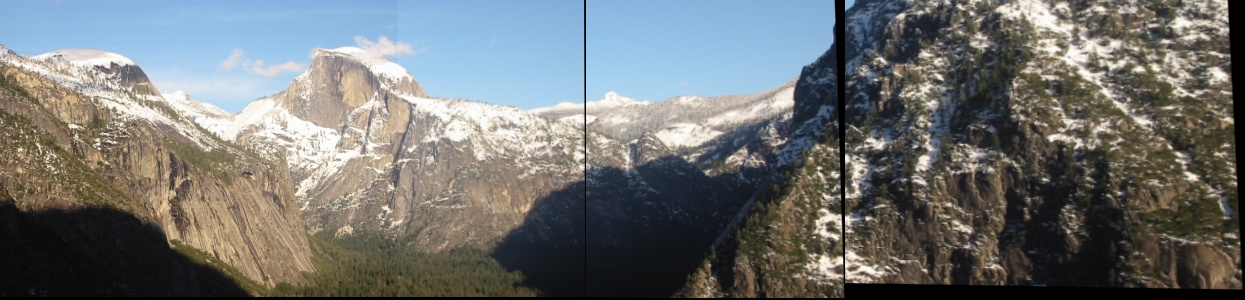
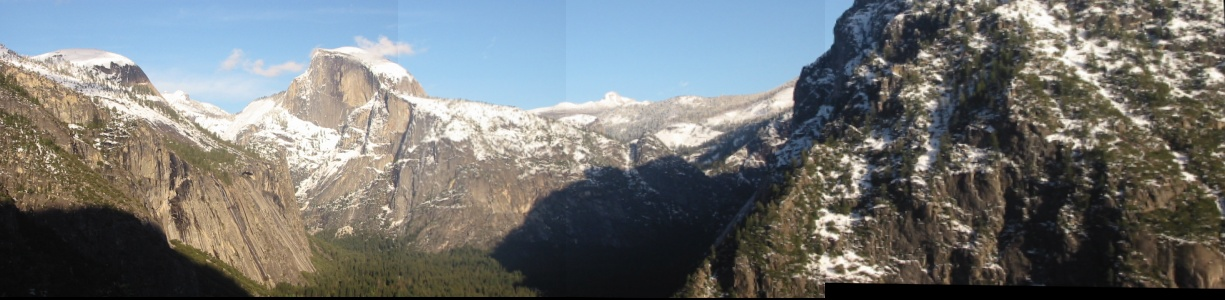
Brushing up something

diff --git a/augmented-reality/realtime-panorama.py b/augmented-reality/realtime-panorama.py
@@ -1,7 +1,3 @@
-# USAGE
-# python stitch.py --first images/bryce_left_01.png --second images/bryce_right_01.png 
-
-# import the necessary packages
 from panorama.panorama import Stitcher
 import imutils
 import numpy as np
@@ -9,33 +5,34 @@ import os
 import cv2
 
 def cropFocus(img):
+	subtractThresh = 20
+
+
 	gray = cv2.cvtColor(img, cv2.COLOR_BGR2GRAY)
 	_, thresh = cv2.threshold(gray,1,255,cv2.THRESH_BINARY)
 	contours = cv2.findContours(thresh,cv2.RETR_EXTERNAL,cv2.CHAIN_APPROX_SIMPLE)
 	cnt = contours[0]
 	x,y,w,h = cv2.boundingRect(cnt)
-	crop = img[y:y+h,x:x+w]
+	crop = img[y:y+h,x:x+w-subtractThresh]
 	return crop
 
+def listDirCreate(root):
+	for imgPath in root:
+		imgPathList.append(imgPath)
+	imgPathList.sort()
+	return imgPathList
 
-'''
-firstImage = 'images/yosemite2.jpg'
-secondImage = 'images/yosemite3.jpg'
-'''
 
 root_path = 'panorama-input/'
 slash = '/'
 root = os.listdir(root_path)
 
 i = 0
-
+result = None
 imgPathList = []
 
 # Creating list of paths
-for imgPath in root:
-	imgPathList.append(imgPath)
-
-imgPathList.sort()
+listDirCreate = listDirCreate(root)
 
 print imgPathList
 for fn in imgPathList:
@@ -59,13 +56,19 @@ for fn in imgPathList:
 		mainImage = cropFocus(result)
 
 		# show the images
-		
+		'''	
 		cv2.imshow("Image A", mainImage)
 		cv2.imshow("Image B", imageB)
-		
+		'''
+		'''
 		cv2.imwrite("result.jpg", result)
 
 		cv2.imshow("Result", result)
 		cv2.waitKey(0)
+		'''
 		i = i + 1
 
+
+cv2.imwrite("result.jpg", result)
+cv2.imshow("Result", result)
+cv2.waitKey(0)
